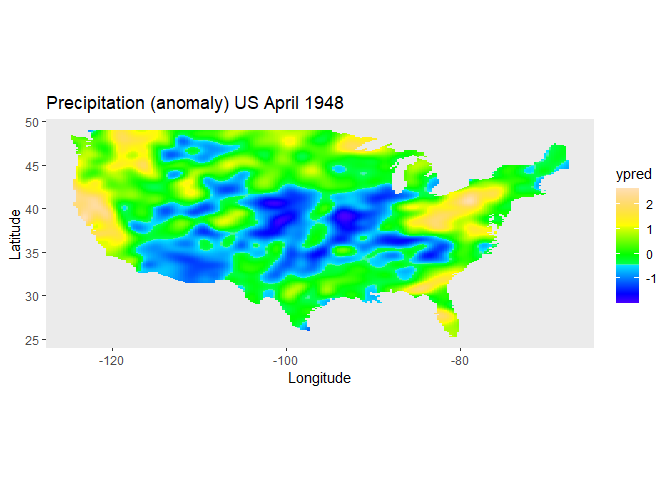
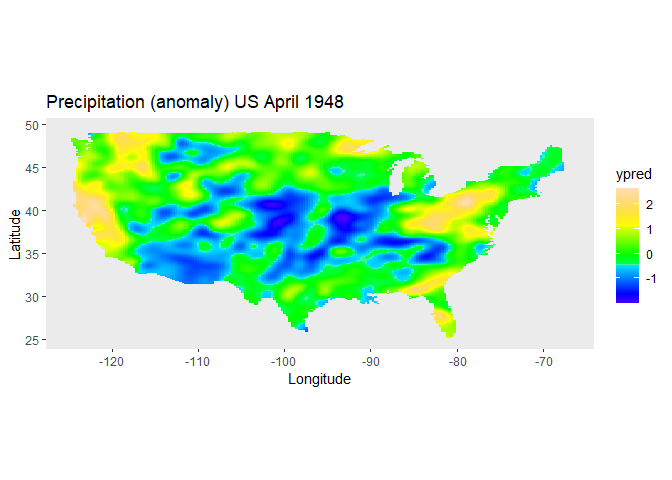
Change dependency on sp to sf (#120)

diff --git a/README.md b/README.md
@@ -22,14 +22,14 @@ probabilities (Li et al. 2021).
 
 ## Installation
 
--   Install from CRAN:
+- Install from CRAN:
 
 ``` r
 install.packages("LMMsolver")
 ```
 
--   Install latest development version from GitHub (requires
-    [remotes](https://github.com/r-lib/remotes) package):
+- Install latest development version from GitHub (requires
+  [remotes](https://github.com/r-lib/remotes) package):
 
 ``` r
 remotes::install_github("Biometris/LMMsolver", ref = "develop", dependencies = TRUE)
@@ -44,6 +44,7 @@ the `spam` package (Furrer and Sain 2010).
 ``` r
 library(LMMsolver)
 library(ggplot2)
+#> Warning: package 'ggplot2' was built under R version 4.3.0
 
 ## Get precipitation data from spam
 data(USprecip, package = "spam")
@@ -86,15 +87,22 @@ the USA.
 
 ``` r
 plotDat <- obtainSmoothTrend(obj1, grid = c(200, 300), includeIntercept = TRUE)
-usa = maps::map("usa", regions = "main", plot = FALSE)
-v <- sp::point.in.polygon(plotDat$lon, plotDat$lat, usa$x, usa$y)
-plotDat <- plotDat[v == 1, ]
+plotDat <- sf::st_as_sf(plotDat, coords = c("lon", "lat"))
+usa <- sf::st_as_sf(maps::map("usa", regions = "main", plot = FALSE))
+sf::st_crs(usa) <- sf::st_crs(plotDat)
+intersection <- sf::st_intersects(plotDat, usa)
+plotDat <- plotDat[!is.na(as.numeric(intersection)), ]
 
-ggplot(plotDat, aes(x = lon, y = lat, fill = ypred)) +
-  geom_tile(show.legend = TRUE) +
+ggplot(usa) + 
+  geom_sf(color = NA) +
+  geom_tile(data = plotDat, 
+            mapping = aes(geometry = geometry, fill = ypred), 
+            linewidth = 0,
+            stat = "sf_coordinates") +
   scale_fill_gradientn(colors = topo.colors(100))+
-  labs(title = "Precipitation (anomaly) US April 1948", x = "Longitude", y = "Latitude") +
-  coord_fixed() +
+  labs(title = "Precipitation (anomaly) US April 1948", 
+       x = "Longitude", y = "Latitude") +
+  coord_sf() +
   theme(panel.grid = element_blank())
 ```
 
@@ -112,10 +120,10 @@ vignette("Solving_Linear_Mixed_Models")
 
 <div id="ref-Boer2020" class="csl-entry">
 
-Boer, Martin P., Hans Peter Piepho, and Emlyn R. Williams. 2020. “<span
-class="nocase">Linear Variance, P-splines and Neighbour Differences for
-Spatial Adjustment in Field Trials: How are they Related?</span>” *J.
-Agric. Biol. Environ. Stat.* 25 (4): 676–98.
+Boer, Martin P., Hans Peter Piepho, and Emlyn R. Williams. 2020.
+“<span class="nocase">Linear Variance, P-splines and Neighbour
+Differences for Spatial Adjustment in Field Trials: How are they
+Related?</span>” *J. Agric. Biol. Environ. Stat.* 25 (4): 676–98.
 <https://doi.org/10.1007/S13253-020-00412-4>.
 
 </div>
@@ -123,10 +131,10 @@ Agric. Biol. Environ. Stat.* 25 (4): 676–98.
 <div id="ref-Bustos-Korts2019" class="csl-entry">
 
 Bustos-Korts, Daniela, Martin P. Boer, Marcos Malosetti, Scott Chapman,
-Karine Chenu, Bangyou Zheng, and Fred A. van Eeuwijk. 2019. “<span
-class="nocase">Combining Crop Growth Modeling and Statistical Genetic
-Modeling to Evaluate Phenotyping Strategies</span>.” *Front. Plant Sci.*
-10 (November). <https://doi.org/10.3389/fpls.2019.01491>.
+Karine Chenu, Bangyou Zheng, and Fred A. van Eeuwijk. 2019.
+“<span class="nocase">Combining Crop Growth Modeling and Statistical
+Genetic Modeling to Evaluate Phenotyping Strategies</span>.” *Front.
+Plant Sci.* 10 (November). <https://doi.org/10.3389/fpls.2019.01491>.
 
 </div>
 

diff --git a/NEWS.md b/NEWS.md
@@ -1,6 +1,7 @@
 # LMMsolver 1.0.5.9000
 
-- A small bug for models with more than 10.000 observations and only a numeric variable in the random part of the model is fixed.
+- The dependency package `sp` is replaced by `sf`.
+- A small bug for models with more than 10.000 observations and only a numeric variable in the. random part of the model is fixed.
 - Weights are now checked for missing values after removing observations with missing values in response. This prevents spurious errors when both response and weight are missing.
 
 # LMMsolver 1.0.5
